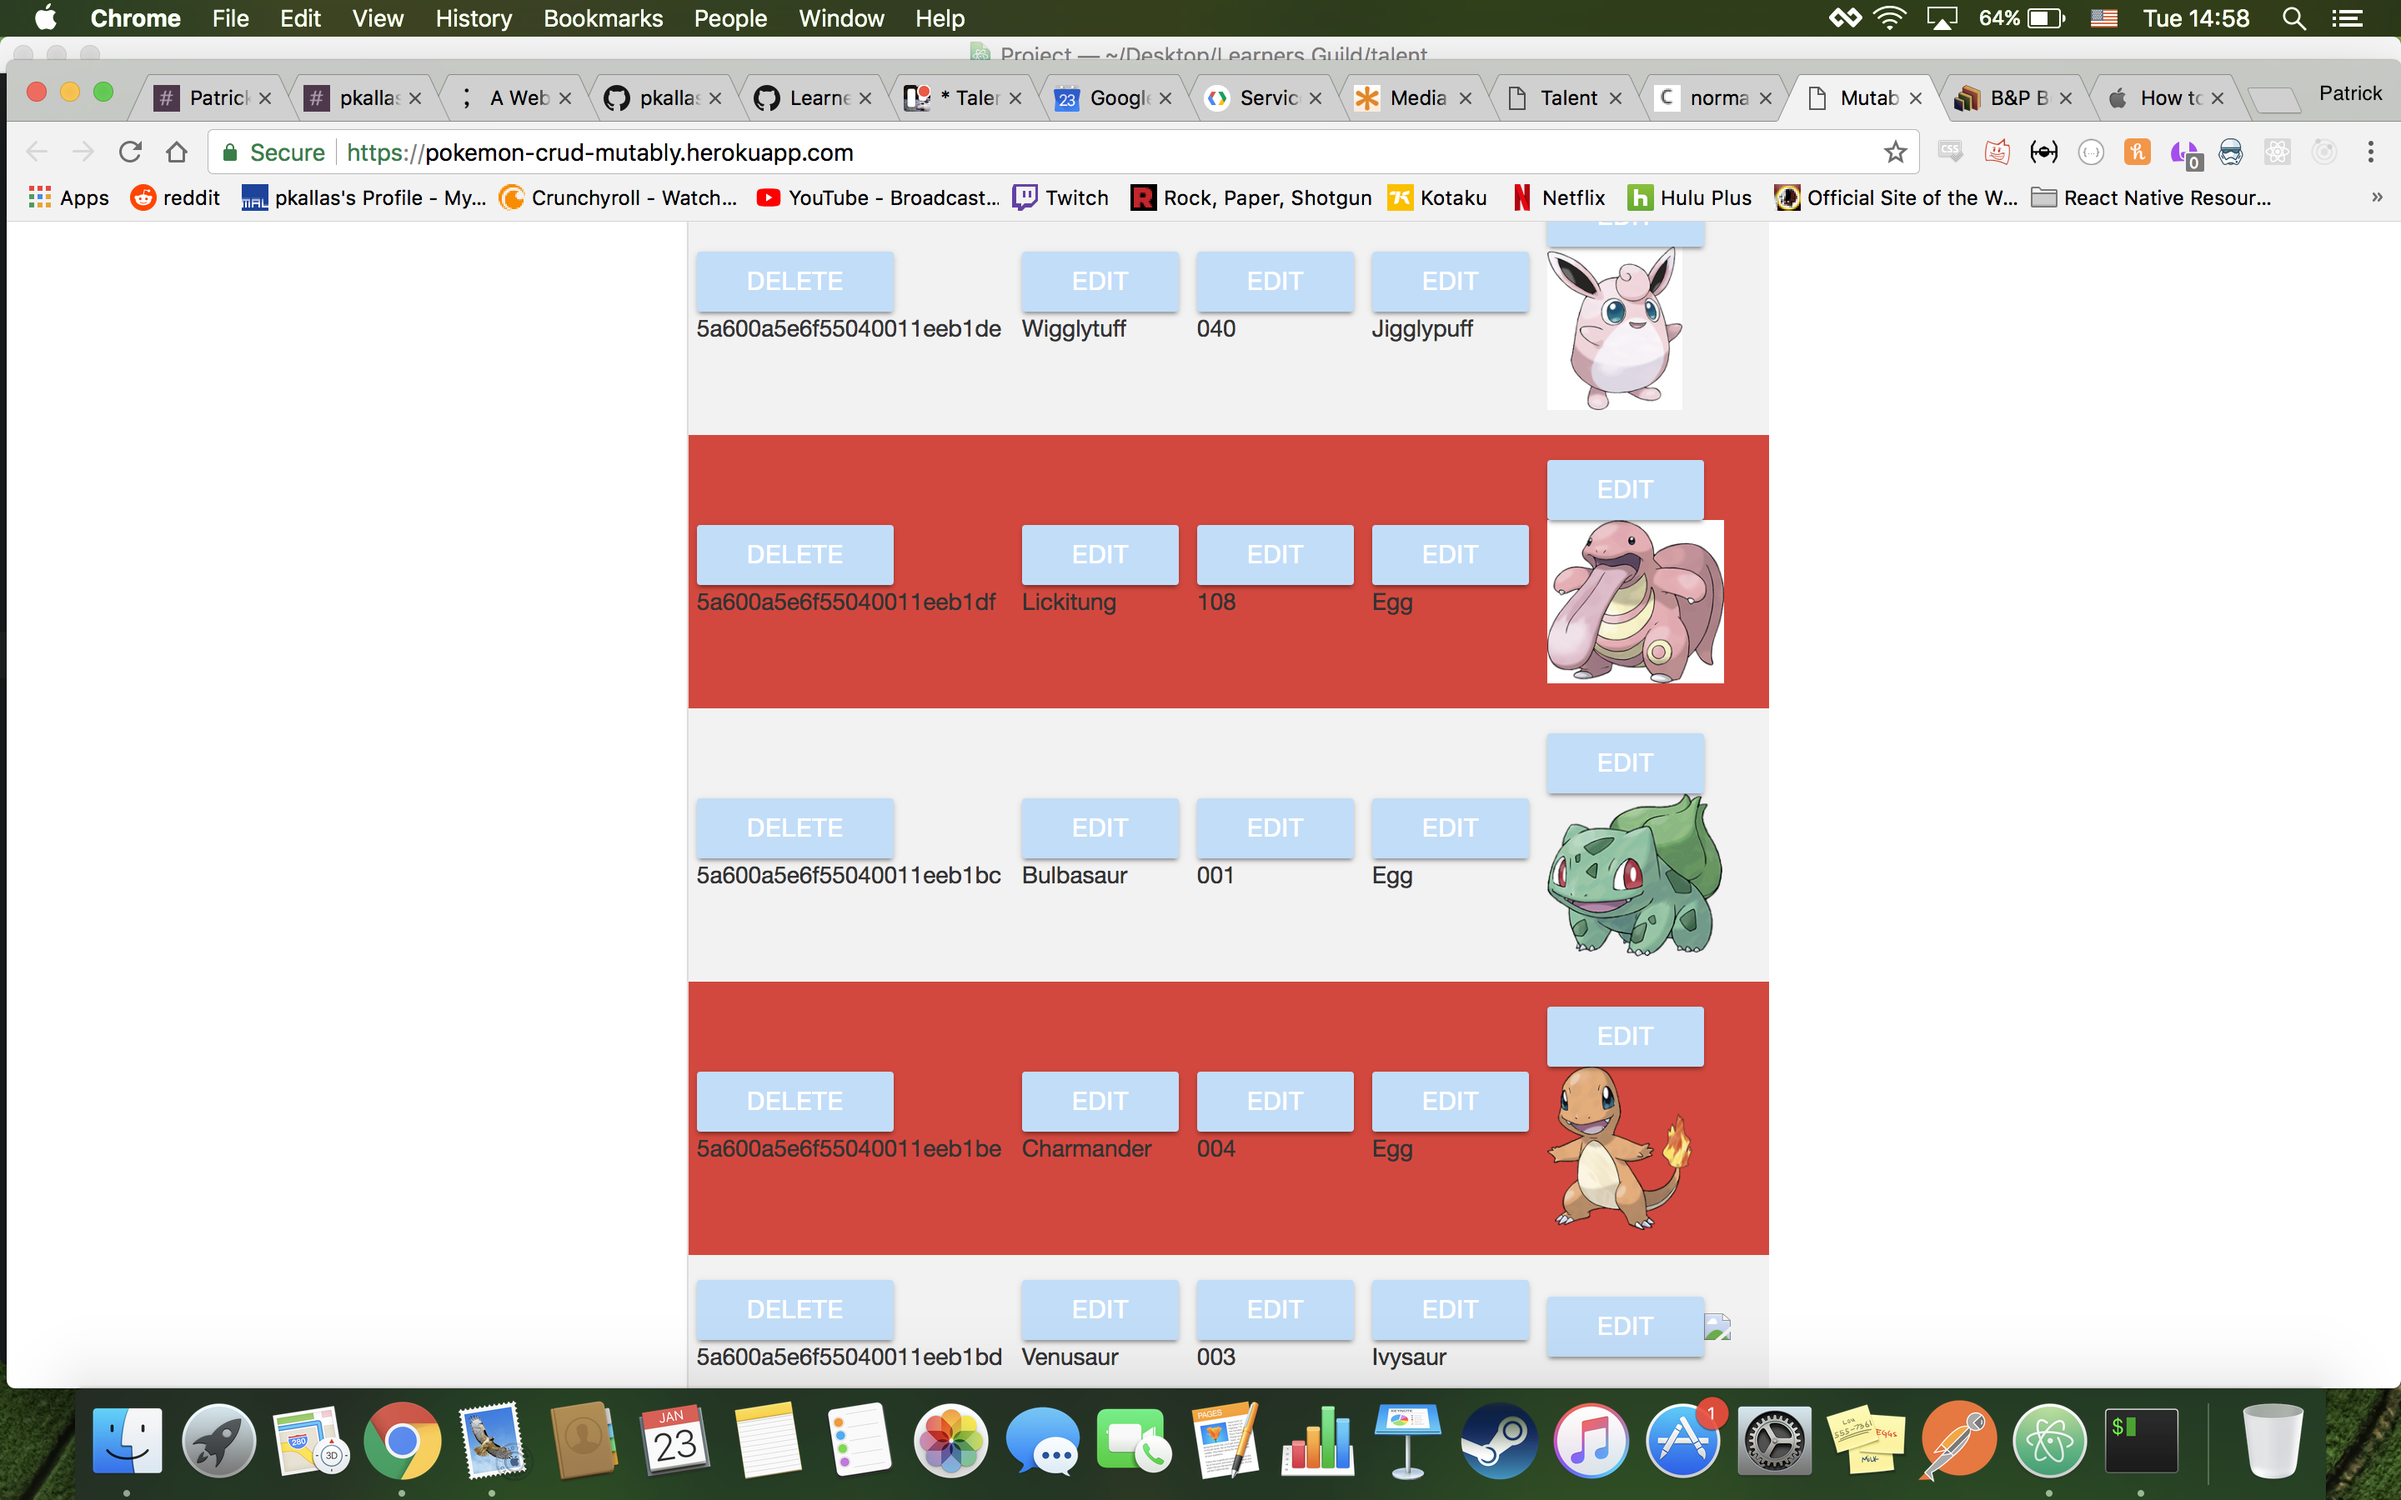
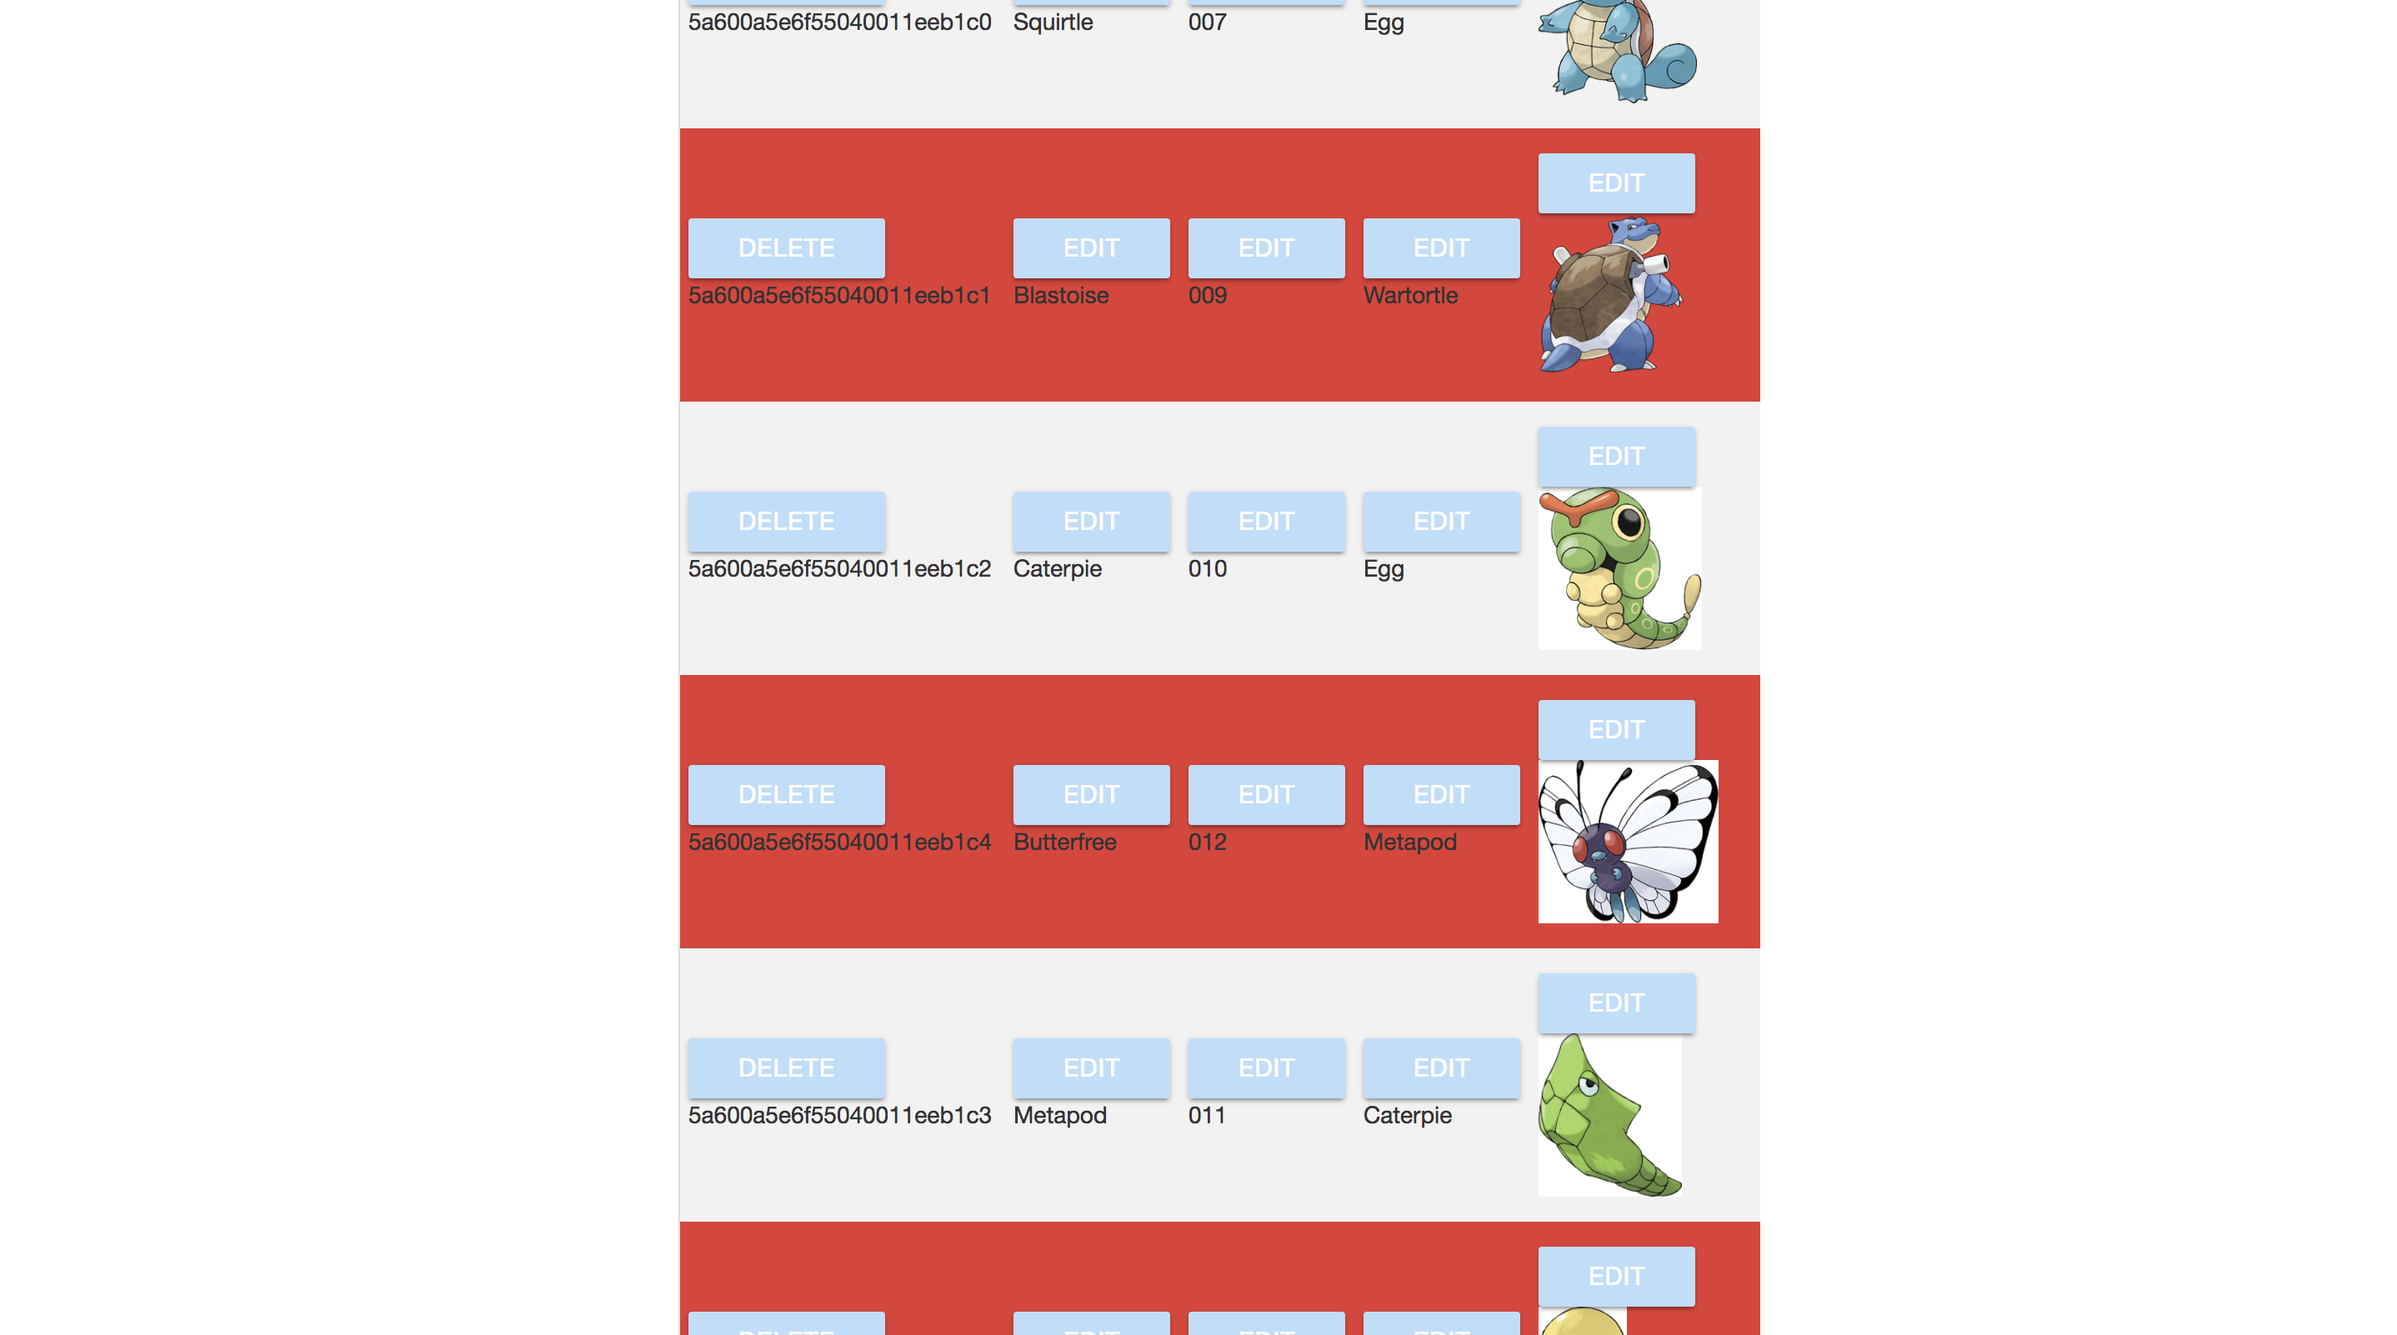
Changed screenshots of pictures to not include mac navbar; refactored filterByName to remove unnecessary if statement

diff --git a/src/client/containers/learnerGallery/index.jsx b/src/client/containers/learnerGallery/index.jsx
@@ -41,9 +41,7 @@ class LearnerGallery extends Component {
     let searchTerm = this.state.selectedLearners.toLowerCase().split();
     let learnersBySkill = this.filterBySkill(searchTerm);
     const foundLearners = filteredLearner.filter(learner => {
-      if (learner.name.toLowerCase().includes(this.state.selectedLearners.toLowerCase())) {
-        return learner;
-      }
+      return learner.name.toLowerCase().includes(this.state.selectedLearners.toLowerCase());
     });
     if (foundLearners.length === 0) {
       return learnersBySkill;
